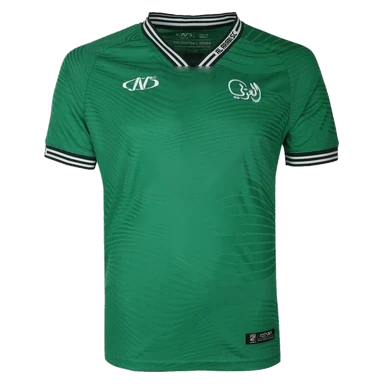
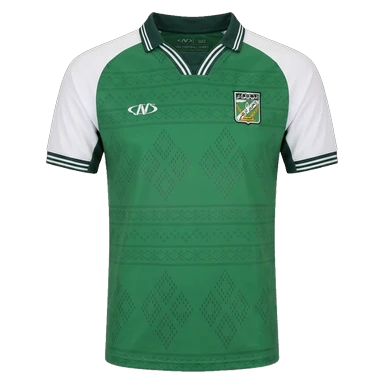
طقم العربي الجديد 2026/27 (أخضر بأكمام بيضاء وياقة بولو، بدون راعٍ) في الفانتسي ونبذة النادي — KIT_V 6، kits.js ?v=285، sw -342

diff --git a/index.html b/index.html
@@ -11818,7 +11818,7 @@ function clubAboutHTML(c, r, played){
     <div class="wm" style="background-image:url('${crestSrcOf(c)}')"></div>
     <div class="cabout-hero"><img class="st-img" src="${stSrc}" alt="" style="${I.stPos?`object-position:${I.stPos}`:""}" decoding="async" onload="this.classList.add('on')" onerror="this.onerror=null;this.src='assets/hero/stadium.jpg'">
       ${I.st?`<span class="st-cap">${esc(I.st)}</span>`:""}
-      ${I.kit?`<div class="cabout-kits">${[[I.kit,"الطقم الأساسي"],[`${I.kit}_gk`,"طقم الحارس"]].filter(x=>x[0]).map(([f,l])=>`<figure class="ckit"><img src="fantasy/assets/kits/${f}.webp?v=5" alt="${l}" loading="lazy" decoding="async" onerror="this.parentElement.remove()"><figcaption>${l}</figcaption></figure>`).join("")}</div>`:""}
+      ${I.kit?`<div class="cabout-kits">${[[I.kit,"الطقم الأساسي"],[`${I.kit}_gk`,"طقم الحارس"]].filter(x=>x[0]).map(([f,l])=>`<figure class="ckit"><img src="fantasy/assets/kits/${f}.webp?v=6" alt="${l}" loading="lazy" decoding="async" onerror="this.parentElement.remove()"><figcaption>${l}</figcaption></figure>`).join("")}</div>`:""}
     </div>
     <div class="cabout-head">
       ${crest(c,true)}

diff --git a/fantasy/js/kits.js b/fantasy/js/kits.js
@@ -3,7 +3,7 @@
 'use strict';
 
 /* الأطقم الحقيقية 2026/27 (منصور 2026-09-15): صور منتج شفافة مبنية من صور التصوير الرسمي، بلا رقم ولا اسم. */
-const KIT_V = 5;
+const KIT_V = 6;   // 6: طقم العربي الجديد 2026/27 (بدون راعٍ) — منصور 2026-10-08
 const KIT_IMG = Object.fromEntries(
   ['KUW','QAD','ARB','KAZ','SAL','NSR','JAH','SAH','FAH','TDM','SHB','SLB'].map(c =>
     [c, {out:`${c}.webp?v=${KIT_V}`, gk:`${c}_gk.webp?v=${KIT_V}`}])

diff --git a/fantasy/index.html b/fantasy/index.html
@@ -50,7 +50,7 @@
   <script src="js/coach.js?v=286"></script>
   <script src="js/ui.js?v=284"></script>
   <script src="js/photos.js?v=284"></script>
-  <script src="js/kits.js?v=284"></script>
+  <script src="js/kits.js?v=285"></script>
   <script src="js/kits-number.js?v=284"></script>
   <script src="js/moderation.js?v=284"></script>
   <script src="js/views.js?v=289"></script>

diff --git a/sw.js b/sw.js
@@ -9,7 +9,7 @@
 
    عند كل نشر: ارفع رقم VER فتُبنى ذاكرة جديدة وتُحذف القديمة.
    ========================================================= */
-const VER   = 'mf-2026-10-07-341-boards';
+const VER   = 'mf-2026-10-08-342-arbkit';
 const SHELL = 'shell-' + VER;
 const RUN   = 'run-'   + VER;
 
